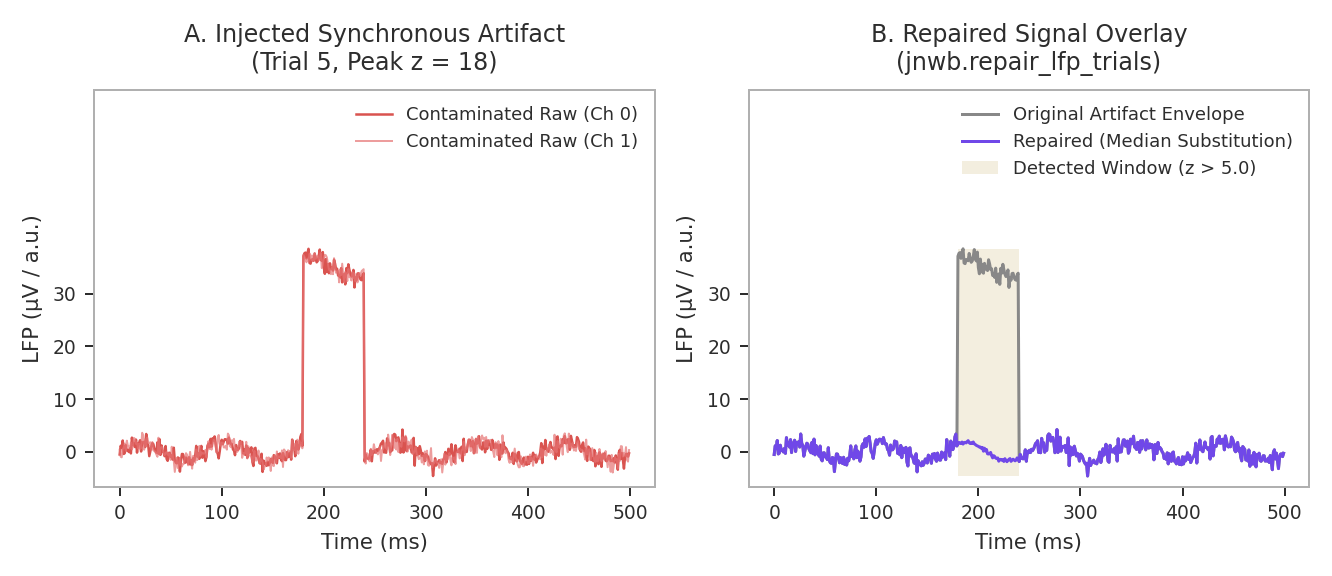
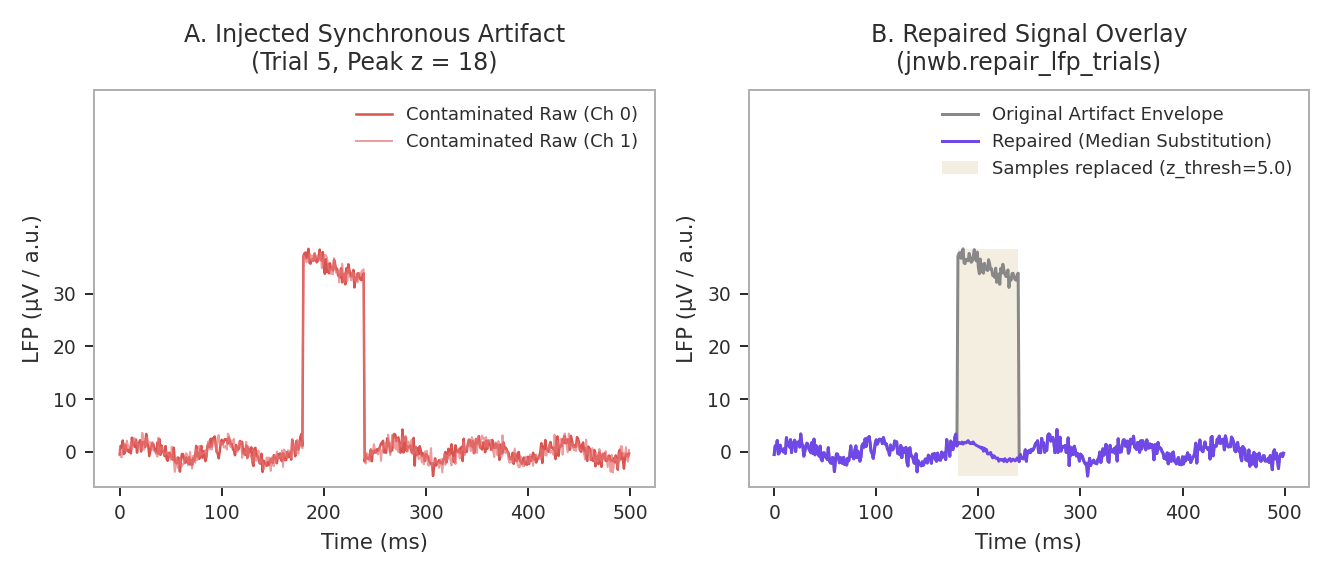
docfig fixes: fig05 legend clear of the cone contour with a matching key, and the overlap check exempts only a background mesh; fig10 shades the samples the repair replaced; MCP reader named only for a rated series its resolver accepts; bilinear docstring states no project history; figure eye-check 

Changed region(s): [[0.708, 0.1875, 0.985, 0.3125]]

diff --git a/tests/test_figure_form.py b/tests/test_figure_form.py
@@ -31,7 +31,7 @@ MIN_CONTRAST = 2.0
 
 #: Colours drawn over a figure element rather than over the page, by generator function.
 DRAWN_OVER_A_FIGURE = {
-    "fig05_complex_tfr": {"white": "the cone-of-influence line over the TFR image",
+    "fig05_complex_tfr": {"white": "the legend text inside its dark box over the TFR image",
                           "#2d2d2d": "the legend box behind white legend text"},
 }
 
@@ -117,22 +117,21 @@ def test_every_figure_on_a_page_has_both_variants():
 
 
 def _legend_overlaps(fig) -> list[str]:
-    """Data a frameless legend is drawn over: lines, bars, spans, fills, point clouds and texts.
+    """Data a legend is drawn over: lines, contours, bars, spans, fills, point clouds and texts.
 
-    On a transparent background a legend without an opaque box has nothing between its text and
-    the data under it, so any intersection is an overlap. A legend with a box at least as opaque
-    as Matplotlib's default (alpha 0.8) is drawn over the figure on purpose, and the colour of its
-    text is left to `DRAWN_OVER_A_FIGURE`.
+    Any intersection is an overlap, framed legend or not: a box hides the data under it. The one
+    element exempt is a background mesh or image that fills the axes, such as a time-frequency
+    map, which leaves no free area; the colour of legend text over it is left to
+    `DRAWN_OVER_A_FIGURE`.
     """
+    from matplotlib.collections import QuadMesh
+
     fig.canvas.draw()
     renderer = fig.canvas.get_renderer()
     hits = []
     for index, ax in enumerate(fig.axes):
         legend = ax.get_legend()
         if legend is None:
-            continue
-        frame = legend.get_frame()
-        if legend.get_frame_on() and frame.get_facecolor()[3] >= 0.8:
             continue
         box = legend.get_window_extent(renderer)
         for line in ax.get_lines():
@@ -142,12 +141,17 @@ def _legend_overlaps(fig) -> list[str]:
             if patch.get_window_extent(renderer).overlaps(box):
                 hits.append(f"axes {index}: patch {patch.get_label()!r}")
         for coll in ax.collections:
+            if isinstance(coll, QuadMesh):
+                continue
             offsets = coll.get_offsets()
+            # A line contour is open paths; testing it as filled would close the cone of influence
+            # into a polygon and report everything inside it.
+            filled = getattr(coll, "filled", True)
             if len(offsets) > 1:
                 points = coll.get_offset_transform().transform(offsets)
                 if any(box.contains(x, y) for x, y in points):
                     hits.append(f"axes {index}: points {coll.get_label()!r}")
-            elif any(coll.get_transform().transform_path(p).intersects_bbox(box, filled=True)
+            elif any(coll.get_transform().transform_path(p).intersects_bbox(box, filled=filled)
                      for p in coll.get_paths()):
                 hits.append(f"axes {index}: collection {coll.get_label()!r}")
         for text in ax.texts:
@@ -203,6 +207,26 @@ def test_the_overlap_check_catches_a_legend_over_a_bar():
     hits = _legend_overlaps(fig)
     plt.close(fig)
     assert hits and all(h.startswith("axes 0") for h in hits), hits
+
+
+def test_the_overlap_check_catches_a_framed_legend_over_a_contour_but_not_over_a_mesh():
+    import matplotlib
+
+    matplotlib.use("Agg")
+    import matplotlib.pyplot as plt
+
+    x, y = np.meshgrid(np.linspace(0, 1, 40), np.linspace(0, 1, 40))
+    fig, (over, clear) = plt.subplots(1, 2)
+    for ax in (over, clear):
+        ax.pcolormesh(x, y, x * y, shading="auto")
+        # A U-shaped line contour whose arms reach the top corners.
+        ax.contour(x, y, (x - 0.5) ** 2 * 4 - y, levels=[0.0], linestyles="--")
+        ax.plot([], [], ls="--", label="boundary")
+    over.legend(frameon=True, loc="upper left")
+    clear.legend(frameon=True, loc="upper center")
+    hits = _legend_overlaps(fig)
+    plt.close(fig)
+    assert hits and all(h.startswith("axes 0: collection") for h in hits), hits
 
 
 def test_the_colour_check_catches_a_hardcoded_foreground():

diff --git a/tests/test_mcp_server.py b/tests/test_mcp_server.py
@@ -198,6 +198,44 @@ class TestMCPServer(unittest.TestCase):
         self.assertIn("layout is unknown", res["access_hint"])
         self.assertNotIn("channels, time", res["access_hint"])
 
+    def test_the_reader_is_named_only_where_it_reads(self):
+        """No reader for a series without a rate, or one the resolver cannot name; a reader
+        wherever one is named returns the series."""
+        import warnings
+
+        import jnwb
+        from pynwb.behavior import Position
+
+        path = str(pathlib.Path(self.temp_dir.name) / "readers.nwb")
+        nwbfile = pynwb.NWBFile(session_description="r", identifier="R",
+                                session_start_time=datetime.now(timezone.utc))
+        nwbfile.add_acquisition(pynwb.TimeSeries(
+            name="stamped", data=np.arange(20.0), unit="m", timestamps=np.linspace(0, 1, 20)))
+        mod = nwbfile.create_processing_module(name="behavior", description="b")
+        position = Position(name="Position")
+        position.create_spatial_series(name="xy", data=np.ones((50, 2)), reference_frame="r", rate=60.0)
+        mod.add(position)
+        mod.add(pynwb.TimeSeries(name="direct", data=np.arange(50.0), unit="a", rate=60.0))
+        with pynwb.NWBHDF5IO(path, "w") as io:
+            io.write(nwbfile)
+
+        stamped = prepare_signal_reference(path, "/acquisition/stamped/data")
+        self.assertEqual((stamped["rate_hz"], stamped["reader"]), (None, None))
+        self.assertEqual(stamped["timestamps_path"], "/acquisition/stamped/timestamps")
+        wrapped = prepare_signal_reference(path, "/processing/behavior/Position/xy/data")
+        self.assertEqual(wrapped["rate_hz"], 60.0)
+        self.assertIsNone(wrapped["reader"])
+        with self.assertRaises(jnwb.NWBInspectError):
+            jnwb.acquisition_channel(path, name="behavior/Position/xy")
+        direct = prepare_signal_reference(path, "/processing/behavior/direct/data")
+        self.assertEqual(direct["reader"],
+                         f"jnwb.acquisition_channel({path!r}, name='behavior/direct', channel=k)")
+        with warnings.catch_warnings():
+            warnings.simplefilter("ignore")
+            values, rate = jnwb.acquisition_channel(path, name="behavior/direct")
+        np.testing.assert_array_equal(values, np.arange(50.0))
+        self.assertEqual(rate, 60.0)
+
     def test_prepare_signal_reference_not_found(self):
         res = prepare_signal_reference(self.file_path, "/non/existent/path")
         self.assertIn("error", res)

diff --git a/docs/generate_figures.py b/docs/generate_figures.py
@@ -291,11 +291,12 @@ def fig05_complex_tfr():
     # Cone of influence boundary
     coi_mask = tfr.coi_mask
     ax2.contour(t * 1000, freqs, coi_mask, levels=[0.5], colors=[C_VIOLET], linewidths=1.2, linestyles="--")
-    ax2.plot([], [], color="white", ls="--", lw=1.5, label="COI Boundary (tfr.coi_mask)")
+    ax2.plot([], [], color=C_VIOLET, ls="--", lw=1.5, label="COI Boundary (tfr.coi_mask)")
     ax2.set_xlabel("Time (ms)")
     ax2.set_ylabel("Frequency (Hz)")
     ax2.set_title("B. Complex Morlet TFR & Cone of Influence (jnwb.complex_tfr)", pad=8)
-    leg = ax2.legend(frameon=True, facecolor="#2d2d2d", edgecolor="none", loc="upper left", labelcolor="white", fontsize=7.5)
+    # Top centre, between the two arms of the cone; the box keeps the text readable over the mesh.
+    ax2.legend(frameon=True, facecolor="#2d2d2d", edgecolor="none", loc="upper center", labelcolor="white", fontsize=7.5)
 
     fig.tight_layout()
     _save(fig, "fig05_complex_tfr_coi.png")
@@ -519,7 +520,10 @@ def fig10_artifact_repair():
     ax2.plot(t, seg[hit_trial, 0], color=C_GRAY, lw=1.2, label="Original Artifact Envelope")
     ax2.plot(t, repaired[hit_trial, 0], color=C_VIOLET, lw=1.2, label="Repaired (Median Substitution)")
     # The window is shaded over the traces' range only, so it stays clear of the legend band.
-    ax2.fill_between([180, 240], y_lo, y_hi, color=C_GOLD, alpha=0.2, lw=0, label="Detected Window (z > 5.0)")
+    # The shaded samples are the detector's output: every sample the repair changed on any channel.
+    replaced = np.any(repaired[hit_trial] != seg[hit_trial], axis=0)
+    ax2.fill_between(t, y_lo, y_hi, where=replaced, step="mid", color=C_GOLD, alpha=0.2, lw=0,
+                     label="Samples replaced (z_thresh=5.0)")
     ax2.set_ylim(*y_lim)
     ax2.set_yticks(y_ticks)
     ax2.set_xlabel("Time (ms)")

diff --git a/jnwb/mcp_server/nwb_tools.py b/jnwb/mcp_server/nwb_tools.py
@@ -7,8 +7,10 @@ from jnwb.nwb_inspect import (
     _h5_channel_count,
     _ndt,
     _resolve_layout,
+    NWBInspectError,
     _series_rate,
     inspect,
+    resolve_acquisition,
 )
 from jnwb.mcp_server.server import mcp
 
@@ -16,6 +18,14 @@ _LAYOUT_BASIS = {
     "electrode_count": "the series' electrode region",
     "schema": "the NWB schema, which puts time on axis 0 of this type",
 }
+
+
+def _resolves(file_path: str, name: str) -> bool:
+    """Whether `resolve_acquisition` accepts `name` as itself in this file."""
+    try:
+        return resolve_acquisition(file_path, name) == name
+    except (NWBInspectError, KeyError, ValueError, OSError):
+        return False
 
 
 def _scalar_attr(ds: h5py.Dataset, key: str) -> float | None:
@@ -71,10 +81,13 @@ def _series_reference(data: h5py.Dataset, file_path: str) -> Dict[str, Any]:
     rate = _series_rate(group)
     timestamps_path = timestamps.name if isinstance(timestamps, h5py.Dataset) else None
 
+    # `acquisition_channel` reads a series only at a constant rate, and only by a name its
+    # resolver accepts; the reader is named when both hold, so it is never a call that fails.
     reader = None
-    if parts[0] in ("acquisition", "processing") and layout != "unknown":
+    if parts[0] in ("acquisition", "processing") and layout != "unknown" and rate is not None:
         name = "/".join(parts[1:-1])
-        reader = f"jnwb.acquisition_channel({file_path!r}, name={name!r}, channel=k)"
+        if _resolves(file_path, name):
+            reader = f"jnwb.acquisition_channel({file_path!r}, name={name!r}, channel=k)"
 
     hint = []
     if reader:

diff --git a/jnwb/bilinear.py b/jnwb/bilinear.py
@@ -4,10 +4,10 @@ r"""Optional/experimental: bilinear (rank-K) logistic regression for 2D neural d
 Not in ``jnwb.__all__``. Import ``jnwb.bilinear`` when the bilinear decoder is needed.
 
 WHY THIS EXISTS
-    Every 2D decoder in this project so far (v5, v6) flattened each trial's (N x T) matrix --
-    N units/channels by T time bins -- into one N*T vector and PCA'd it down. That destroys the
-    laminar/spatial topology and the temporal continuity, and the PCA components carry no
-    interpretable spatial or temporal meaning. This model instead constrains the weight matrix
+    Common 2D decoders flatten each trial's (N x T) matrix -- N units/channels by T time
+    bins -- into one N*T vector and reduce it with PCA. That discards the laminar/spatial
+    topology and the temporal continuity, and the PCA components carry no interpretable
+    spatial or temporal meaning. This model instead constrains the weight matrix
     to be low rank:
 
         W = sum_{k=1..K} u_k v_k^T ,    logit = <W, X> + b = sum_k u_k^T X v_k

diff --git a/artifacts/evidence/0.2.7/figure_eye_check.md b/artifacts/evidence/0.2.7/figure_eye_check.md
@@ -1,0 +1,29 @@
+# Figure eye-check, 0.2.7
+
+The recorded eye-check that P-241 (07-01) asks for, covering every figure variant regenerated
+for P-240 (07-01) and the critic's follow-ups (F1, F3). Each PNG was flattened onto the page
+background its variant is shown on: white (`#ffffff`) for `NAME.png`, and the slate background
+(`#1b1b1b`) that `tests/test_figure_form.py` uses for `NAME.dark.png`. The flattened copy was
+then viewed.
+
+Generator: `docs/generate_figures.py`, Matplotlib 3.10, on the lane branch after the merge of
+dev `5e610000`. A second full run of the generator was byte-identical on all 20 PNGs.
+
+| Variant | sha256 | Seen on its page background |
+|---|---|---|
[12 lines of base64/hex data omitted]
+
+The mechanical counterpart is `test_no_legend_covers_the_data` in `tests/test_figure_form.py`. It
+reports an intersection between any legend and any line, contour, patch, fill, point cloud or text
+in all 20 variants. The one exempt element is a background mesh.

diff --git a/CHANGELOG.md b/CHANGELOG.md
@@ -447,13 +447,16 @@ and this project adheres to [Semantic Versioning](https://semver.org/spec/v2.0.0
   `layout`, `layout_basis` and `reader`, and its `access_hint` gives the physical-value formula and
   the sample times. Its hint told the caller to slice the stored `data` directly, which skips the
   scaling and the start time, and read the channel axis from which dimension was longer.
-  `layout` is `"unknown"` unless the electrode region or the schema decides it, and `reader`
-  names `jnwb.acquisition_channel` only when the layout is known.
+  `layout` is `"unknown"` unless the electrode region or the schema decides it. `reader` names
+  `jnwb.acquisition_channel` only when the layout is known, the series has a constant rate, and
+  `jnwb.resolve_acquisition` accepts the series' path as its name; otherwise it is `None`.
 - `jnwb.bilinear`: the documentation no longer calls two-class `predict_proba` calibrated. It is
   sigmoid(D_1 - D_0) of two mirrored one-vs-rest scores, about sigmoid(2 D_1), and overconfident
   on held-out trials.
-- Documentation figures 1, 3, 7 and 10: no legend is drawn over data. On the transparent
-  background a frameless legend had nothing between its text and the bars or traces under it.
+- Documentation figures 1, 3, 5, 7 and 10: no legend is drawn over data. A legend without a box
+  had nothing between its text and the bars or traces under it on the transparent background, and
+  figure 5's boxed legend hid the top of the cone-of-influence contour. Figure 10 shades the
+  samples `repair_lfp_trials` replaced, not the injected window.
 
 ## [0.2.6.1] - 2026-09-25
 
